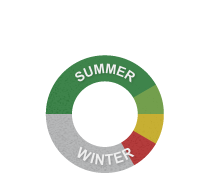
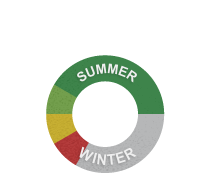
New timeline widget

diff --git a/app/soc/templates/v2/modules/gsoc/homepage/_timeline.html b/app/soc/templates/v2/modules/gsoc/homepage/_timeline.html
@@ -16,10 +16,11 @@ limitations under the License.
 <div id="block-program-timeline-content" class="block-content">
   <img id="program-timeline" src="{{ img_url }}" usemap="#program-timeline" width="210" height="181" alt="" />
   <map id="_program-timeline" name="program-timeline">
-    <area shape="poly" coords="45,113,56,79,78,60,107,55,134,63,155,84,133,98,118,82,94,79,77,93,72,114," href="javascript:void(0)" alt="On Season" title="On Season" onMouseOver="if(document.images) document.getElementById('program-timeline').src= '/soc/content/images/v2/gsoc/image-map-on-season.png';" onMouseOut="if(document.images) document.getElementById('program-timeline').src= '{{ img_url }}';" />
-    <area shape="poly" coords="133,98,143,90,155,84,162,98,164,114,136,114," href="javascript:void(0)" alt="Students Applications" title="Students Applications" onMouseOver="if(document.images) document.getElementById('program-timeline').src= '/soc/content/images/v2/gsoc/image-map-student-apps.png';" onMouseOut="if(document.images) document.getElementById('program-timeline').src= '{{ img_url }}';" />
-    <area shape="poly" coords="132,130,137,114,164,114,163,130,156,145,143,137" href="javascript:void(0)" alt="Organization Applications" title="Organization Applications" onMouseOver="if(document.images) document.getElementById('program-timeline').src= '/soc/content/images/v2/gsoc/image-map-org-apps.png';" onMouseOut="if(document.images) document.getElementById('program-timeline').src= '{{ img_url }}';" />
-    <area shape="poly" coords="120,142,134,131,155,143,147,156,133,165," href="javascript:void(0)" alt="Kickoff" title="Kickoff" onMouseOver="if(document.images) document.getElementById('program-timeline').src= '/soc/content/images/v2/gsoc/image-map-kickoff.png';" onMouseOut="if(document.images) document.getElementById('program-timeline').src= '{{ img_url }}';" />
-    <area shape="poly" coords="45,113,72,113,79,138,105,147,121,141,134,164,100,169,72,161,55,143,48,129," href="javascript:void(0)" alt="Off Season" title="Off Season" onMouseOver="if(document.images) document.getElementById('program-timeline').src= '/soc/content/images/v2/gsoc/image-map-off-season.png';" onMouseOut="if(document.images) document.getElementById('program-timeline').src= '{{ img_url }}';" />
+    <area shape="poly" coords="53,83,67,69,86,57,105,55,124,59,140,67,151,78,158,88,161,97,164,114,137,114,135,110,126,89,115,83,103,81,92,83,81,91,76,97" href="javascript:void(0)" alt="On Season" title="On Season" onMouseOver="if(document.images) document.getElementById('program-timeline').src= '/soc/content/images/v2/gsoc/image-map-on-season.png';" onMouseOut="if(document.images) document.getElementById('program-timeline').src= '{{ img_url }}';" />
+    <area shape="poly" coords="46,114,46,103,48,95,54,84,77,98,73,105,72,113," href="javascript:void(0)" alt="Students Applications" title="Students Applications" onMouseOver="if(document.images) document.getElementById('program-timeline').src= '/soc/content/images/v2/gsoc/image-map-student-apps.png';" onMouseOut="if(document.images) document.getElementById('program-timeline').src= '{{ img_url }}';" />
+    <area shape="poly" coords="53,143,49,134,46,113,72,113,73,122,77,130" href="javascript:void(0)" alt="Organization Applications" title="Organization Applications" onMouseOver="if(document.images) document.getElementById('program-timeline').src= '/soc/content/images/v2/gsoc/image-map-org-apps.png';" onMouseOut="if(document.images) document.getElementById('program-timeline').src= '{{ img_url }}';" />
+    <area shape="poly" coords="75,165,62,155,53,143,77,130,81,136,88,142" href="javascript:void(0)" alt="Kickoff" title="Kickoff" onMouseOver="if(document.images) document.getElementById('program-timeline').src= '/soc/content/images/v2/gsoc/image-map-kickoff.png';" onMouseOut="if(document.images) document.getElementById('program-timeline').src= '{{ img_url }}';" />
+    <area shape="poly" coords="88,142,101,146,114,145,126,139,134,128,137,113,164,113,161,131,154,145,147,155,134,165,119,171,104,173,89,171,75,165" href="javascript:void(0)" alt="Off Season" title="Off Season" onMouseOver="if(document.images) document.getElementById('program-timeline').src= '/soc/content/images/v2/gsoc/image-map-off-season.png';" onMouseOut="if(document.images) document.getElementById('program-timeline').src= '{{ img_url }}';" />
+
   </map>
 </div>
